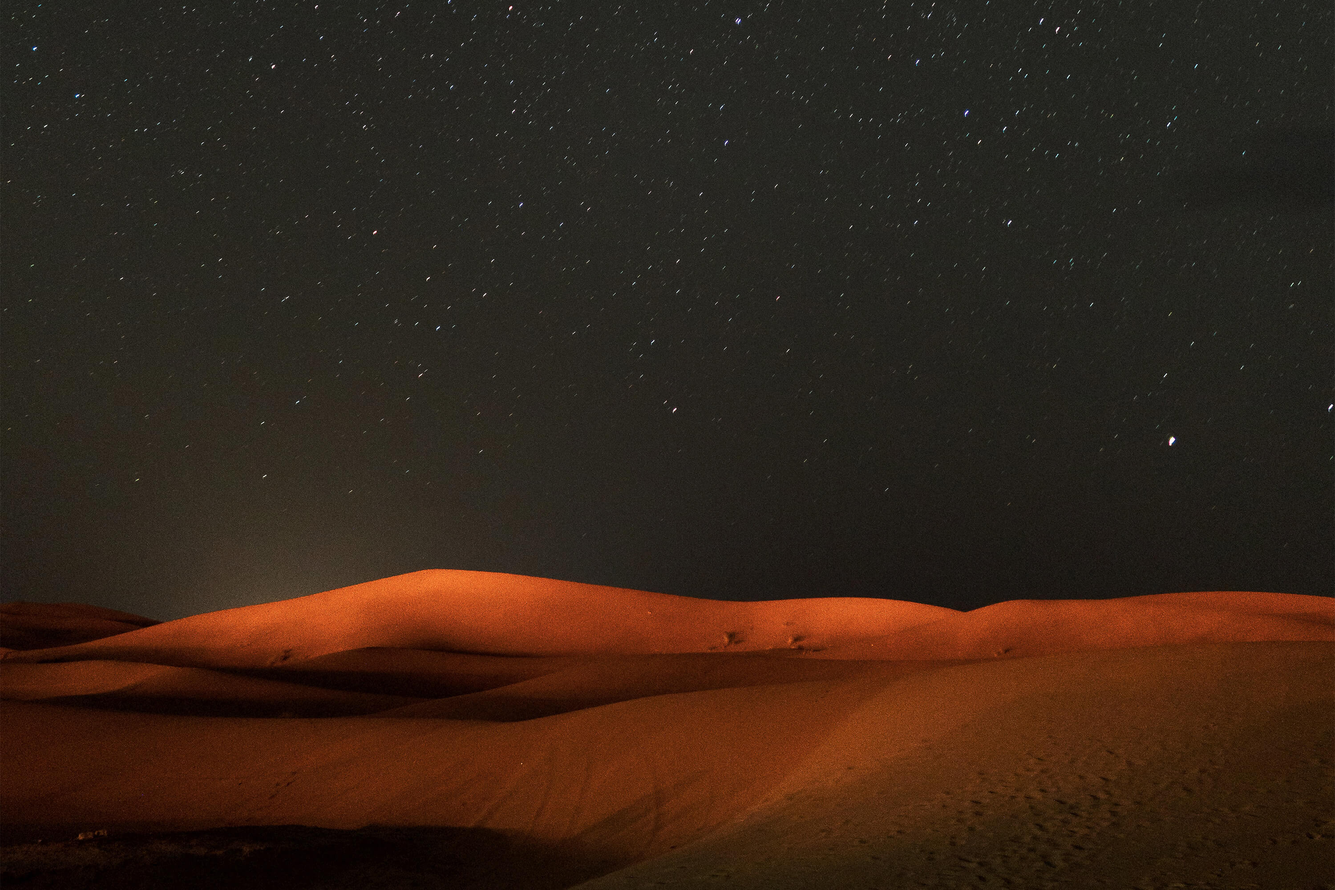
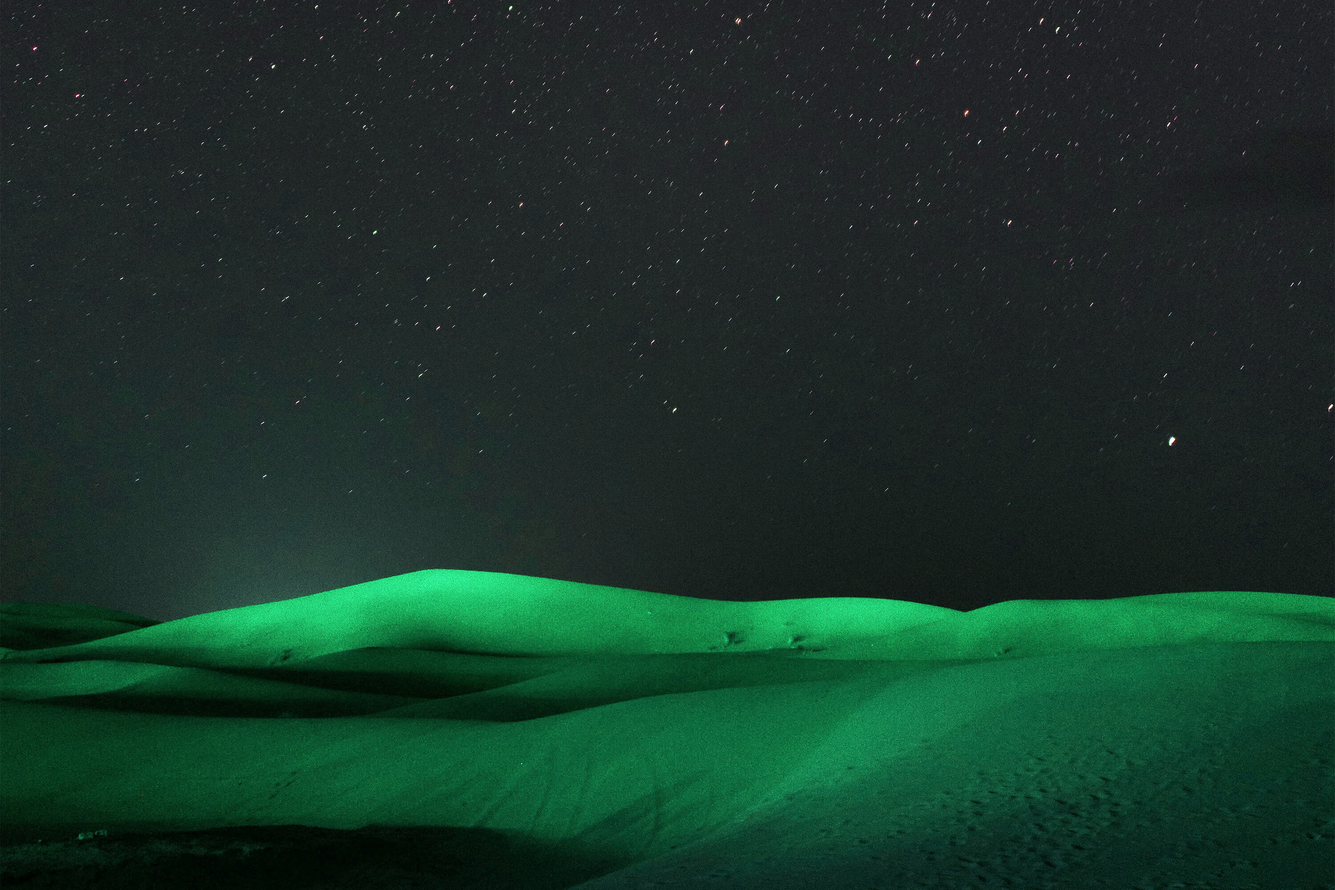
Website Revamp

diff --git a/css/styles.css b/css/styles.css
@@ -1,88 +1,4 @@
-/* =================================================================== 
- * Ceevee Main Stylesheet
- * Template Ver. 2.0.0
- * 01-03-2021
- * ------------------------------------------------------------------
- *
- * TOC:
- * # settings and variables
- *      ## fonts
- *      ## colors
- *      ## vertical spacing and typescale
- *      ## grid variables
- * # normalize
- * # basic/base setup styles
- *      ## media
- *      ## typography resets
- *      ## links
- *      ## inputs
- * # Grid v3.0.0
- *      ## medium screen devices
- *      ## tablets
- *      ## mobile devices
- *      ## small mobile devices <= 400px
- * # block grids
- *      ## block grids - medium screen devices
- *      ## block grids - tablets
- *      ## block grids - mobile devices
- *      ## block grids - small mobile devices <= 400px
- * # MISC 
- * # custom grid, block grid STACK breakpoints
- * # base style overrides 
- *      ## links
- * # typography & general theme styles
- *      ## Lists
- *      ## responsive video container
- *      ## floated image
- *      ## tables
- *      ## spacing
- * # preloader
- *      ## page loaded
- * # forms 
- *      ## Style Placeholder Text
- * # buttons 
- * # additional components
- *      ## skillbars
- *      ## alert box
- *      ## pagination 
- * # common and reusable styles
- *      ## animation stuff 
- *      ## MailtoUI style overrides
- * # site header
- *      ## header nav
- *      ## mobile menu toggle 
- * # hero
- *      ## hero content
- *      ## hero social
- *      ## hero scrolldown
- *      ## animate intro content
- * # resume 
- *      ## resume block
- * # portfolio
- *      ## portfolio list
- *      ## modal popup
- * # CTA
- * # testimonials
- *      ## swiper style overrides
- *      ## testimonial slider 
- * # contact
- *      ## contact block
- * # footer
- *      ## footer social
- *      ## copyright
- *      ## go top
- *
- * ------------------------------------------------------------------ */
 
-
-/* ===================================================================
- * # settings and variables
- *
- * ------------------------------------------------------------------- */
-
-/* ------------------------------------------------------------------- 
- * ## fonts
- * ------------------------------------------------------------------- */
 @import url("https://fonts.googleapis.com/css2?family=IBM+Plex+Serif:ital,wght@0,300;0,400;0,500;0,600;0,700;1,200;1,300;1,400;1,500;1,600&family=Inter:wght@300;400;500;600;700&display=swap");
 :root {
     --font-1: "Inter", sans-serif;
@@ -97,21 +13,21 @@
  * ------------------------------------------------------------------- */
 :root {
     /* color-1(#11ABB0)
-     * color-2(#F06000)
+     * color-2(#00dd85 )
      */
-    --color-1: hsla(182, 82%, 38%, 1);
-    --color-2: hsla(24, 100%, 47%, 1);
+    --color-1: rgb(12, 216, 114);
+    --color-2: rgb(11, 194, 93);
 
     /* theme color variations
      */
-    --color-1-lighter: hsla(182, 82%, 58%, 1);
-    --color-1-light  : hsla(182, 82%, 48%, 1);
+    --color-1-lighter: rgb(22, 223, 123);
+    --color-1-light  : rgb(22, 223, 123);
     --color-1-dark   : hsla(182, 82%, 28%, 1);
     --color-1-darker : hsla(182, 82%, 18%, 1);
-    --color-2-lighter: hsla(24, 100%, 67%, 1);
-    --color-2-light  : hsla(24, 100%, 57%, 1);
-    --color-2-dark   : hsla(24, 100%, 37%, 1);
-    --color-2-darker : hsla(24, 100%, 27%, 1);
+    --color-2-lighter: rgb(11, 194, 93);
+    --color-2-light  : rgb(11, 194, 93);
+    --color-2-dark   : rgb(11, 194, 93);
+    --color-2-darker : rgb(0, 88, 47);
 
     /* feedback colors
      * color-error(#ffd1d2), color-success(#c8e675), 
@@ -119,7 +35,7 @@
      */
     --color-error          : hsla(359, 100%, 91%, 1);
     --color-success        : hsla(76, 69%, 68%, 1);
-    --color-info           : hsla(205, 82%, 91%, 1);
+    --color-info           : rgb(9, 211, 100);
     --color-notice         : hsla(51, 100%, 80%, 1);
     --color-error-content  : hsla(359, 50%, 50%, 1);
     --color-success-content: hsla(76, 29%, 28%, 1);
@@ -133,7 +49,7 @@
      */
     --color-black  : #000000;
     --color-gray-19: #0a0a0a;
-    --color-gray-18: #141414;
+    --color-gray-18: #ffffff;
     --color-gray-17: #1e1e1e;
     --color-gray-16: #282828;
     --color-gray-15: #323333;
@@ -145,25 +61,25 @@
     --color-gray-9 : #737474;
     --color-gray-8 : #828484;
     --color-gray-7 : #929393;
-    --color-gray-6 : #a1a3a3;
+    --color-gray-6 : #616161;
     --color-gray-5 : #b1b2b2;
     --color-gray-4 : #c1c1c1;
-    --color-gray-3 : #d0d1d1;
+    --color-gray-3 : #747474;
     --color-gray-2 : #e0e0e0;
     --color-gray-1 : #eff0f0;
     --color-white  : #ffffff;
 
     /* text
      */
-    --color-text       : var(--color-gray-16);
-    --color-text-dark  : var(--color-black);
-    --color-text-light : var(--color-gray-7);
-    --color-placeholder: var(--color-gray-7);
+    --color-text       : var(--color-white);
+    --color-text-dark  : var(--color-white);
+    --color-text-light : var(--color-white);
+    --color-placeholder: var(--color-white);
 
     /* buttons
      */
     --color-btn                   : var(--color-gray-3);
-    --color-btn-text              : var(--color-black);
+    --color-btn-text              : var(--color-white);
     --color-btn-hover             : var(--color-black);
     --color-btn-hover-text        : var(--color-white);
     --color-btn-primary           : var(--color-1);
@@ -171,14 +87,14 @@
     --color-btn-primary-hover     : var(--color-2);
     --color-btn-primary-hover-text: var(--color-white);
     --color-btn-stroke            : var(--color-black);
-    --color-btn-stroke-text       : var(--color-black);
-    --color-btn-stroke-hover      : var(--color-black);
+    --color-btn-stroke-text       : var(--color-white);
+    --color-btn-stroke-hover      : var(--color-white);
     --color-btn-stroke-hover-text : var(--color-white);
 
     /* others
      */
-    --color-bg     : var(--color-gray-18);
-    --color-border : var(--color-gray-2);
+    --color-bg     : var(--color-gray-18s);
+    --color-border : var(--color-white);
     --border-radius: 5px;
 }
 
@@ -2067,7 +1983,7 @@ img,
     border-top: 4px solid rgba(255, 255, 255, 0.1);
     border-right: 4px solid rgba(255, 255, 255, 0.1);
     border-bottom: 4px solid rgba(255, 255, 255, 0.1);
-    border-left: 4px solid white;
+    border-left: 4px solid rgb(9, 194, 123);
     -webkit-animation: load 1.1s infinite linear;
     animation: load 1.1s infinite linear;
     display: block;
@@ -2811,7 +2727,7 @@ input[type="button"].btn--primary:focus {
 
 .pgn__num:hover {
     background: var(--color-gray-18);
-    color: var(--color-white);
+    color: var(--color-black);
 }
 
 .pgn .current, .pgn .current:hover {
@@ -2875,7 +2791,7 @@ input[type="button"].btn--primary:focus {
 .pgn__prev:focus svg path, 
 .pgn__next:hover svg path, 
 .pgn__next:focus svg path {
-    fill: white;
+    fill: rgb(53, 53, 53);
 }
 
 .pgn__prev {
@@ -3107,7 +3023,7 @@ input[type="button"].btn--primary:focus {
 .mailtoui-button-copy-clicked:hover, 
 .mailtoui-button-copy-clicked:focus {
     background-color: #1F9D55;
-    color: white;
+    color: rgb(46, 46, 46);
 }
 
 .mailtoui-email-address {
@@ -3882,7 +3798,7 @@ input[type="button"].btn--primary:focus {
  *
  * ------------------------------------------------------------------- */
 .s-resume {
-    background-color: white;
+    background-color: var(--color-gray-17);
     padding-top: calc(6 * var(--space));
     padding-bottom: var(--vspace-4);
 }
@@ -3960,7 +3876,7 @@ input[type="button"].btn--primary:focus {
  *
  * ------------------------------------------------------------------- */
 .s-portfolio {
-    background-color: var(--color-gray-1);
+    background-color: var(--color-gray-17);
     padding-top: calc(6 * var(--space));
     padding-bottom: var(--vspace-5);
 }
@@ -3983,7 +3899,7 @@ input[type="button"].btn--primary:focus {
 
 .folio-item__thumb {
     display: block;
-    background-color: white;
+    background-color: rgba(255, 255, 255, 0.02);
     position: relative;
     overflow: hidden;
 }
@@ -4012,7 +3928,7 @@ input[type="button"].btn--primary:focus {
     font-family: var(--font-2);
     font-weight: 300;
     font-size: 3rem;
-    color: white;
+    color: rgba(255, 255, 255, 0.02);
     display: block;
     height: 32px;
     width: 32px;
@@ -4062,7 +3978,7 @@ input[type="button"].btn--primary:focus {
  * ------------------------------------------------------------------- */
 .modal-popup {
     max-width: 680px;
-    background-color: white;
+    background-color: rgba(255, 255, 255, 0.02);
     font-size: calc(var(--text-size) * 0.9444);
     line-height: 1.647;
     overflow-y: auto;
@@ -4428,7 +4344,7 @@ input[type="button"].btn--primary:focus {
 }
 
 .contact-block a {
-    color: white;
+    color: rgba(255, 255, 255, 0.02);
 }
 
 .contact-block a:hover, .contact-block a:focus {
@@ -4438,7 +4354,7 @@ input[type="button"].btn--primary:focus {
 .contact-block__header {
     font-size: 2.2rem;
     font-weight: 400;
-    color: rgba(255, 255, 255, 0.4);
+    color: rgba(255, 255, 255, 0.02);
     margin-top: 0;
     margin-bottom: .2rem;
 }
@@ -4507,7 +4423,7 @@ input[type="button"].btn--primary:focus {
  *
  * ------------------------------------------------------------------- */
 .s-footer {
-    background-color: var(--color-gray-18);
+    background-color: var(--color-gray-17);
     padding-top: var(--vspace-1);
     padding-bottom: var(--vspace-3);
     color: rgba(255, 255, 255, 0.2);

diff --git a/index.html b/index.html
@@ -77,7 +77,7 @@
                     <h1>I'm Laser.</h1>
 
                     <h3>
-                    I'm a Minecraft based graphic designer and illustrator working for <a href="https://mantle.gg">Mantle</a> and <a href="https://discord.gg/QrduuqWqEh">Melon Client</a> creating high quality capes and cosmetics. Lets begin shall we? And learn more  <a class="smoothscroll" href="#about">about me</a>.
+                    I'm a Minecraft based graphic designer and illustrator working for <a href="https://mantle.gg">Mantle</a>,  <a href="https://discord.gg/cloaks">Cloaks+</a> and <a href="https://discord.gg/QrduuqWqEh">Melon Client</a> creating high quality capes and cosmetics. Lets begin shall we? And learn more  <a class="smoothscroll" href="#about">about me</a>.
                     </h3>
 
                     <div class="s-hero__content-social">
@@ -348,8 +348,8 @@
                 <img src="images/portfolio/gallery/g-fuji.jpg" alt="" />
     
                 <div class="modal-popup__desc">
-                    <h5>God of Thunder</h5>
-                    <p>Profile picture for me :D</p>
+                    <h5>Sword Dance</h5>
+                    <p>Show everyone your moves.</p>
                     <ul class="modal-popup__cat">
                         <li>Product Design</li>
                     </ul>
@@ -364,8 +364,8 @@
                 <img src="images/portfolio/gallery/g-skaterboy.jpg" alt="" />
     
                 <div class="modal-popup__desc">
-                    <h5>Laser's World Icon</h5>
-                    <p>Icon for my <a href="https://discord.gg/bqF2KUgvG2">Discord server</a>:D</p>
+                    <h5>Late Night</h5>
+                    <p>Sometimes... You are forced to use your gun.</p>
                     <ul class="modal-popup__cat">
                         <li>Branding</li>
                         <li>Product Design</li>
@@ -444,7 +444,7 @@
                                     <span>Customer</span>
                                 </cite>
                             </div>
-                            <p>
+                            <p style="color:rgb(255, 255, 255);font-size:25px;">
                                 Graphics are looking clean and professional. Contact with the designer is great.
                                  If you are looking for someone to make some graphic work for your project I would recommend him 100%
                             </p>
@@ -458,11 +458,8 @@
                                     <span>Customer</span>
                                 </cite>
                             </div>
-                            <p>
-                                I asked laser to design me a cape. I msg'd a lot of people to get a quick answer/cape soon and he msg me back within 4 minutes.
-I asked him to show progress and he only sent me the background but I already knew it was a wrap because its took him like a hour and a half to make it.
-I've never seen someone put in that much work for just a background.
-I knew it was going to be good. It only took him 2 more hours to finish the whole cape,so i would say he is pretty fast at making capes. When I showed my faction leaders the new cape design they were so gas about it and were all really liked it so much that we swapped out the old with the new one as fast as possible. 
+                            <p style="color:rgb(255, 255, 255);font-size:25px;">
+It only took him 2 more hours to finish the whole cape,so i would say he is pretty fast at making capes.
 I liked it so much I bought lunar wings to match with it and all i got to say is that the cape he made from me was worth way more than 5 dollars since he did it so fast. A Great Designer.
                             </p>
                         </div> <!-- end testimonial-slider__slide -->
@@ -475,7 +472,7 @@ I liked it so much I bought lunar wings to match with it and all i got to say is
                                     <span>Customer</span>
                                 </cite>
                             </div>
-                            <p>
+                            <p style="color:rgb(255, 255, 255);font-size:25px;">
                                 Very fast and was there with me the whole time. Would recommend if you want a trustworthy & good person to design! 10/10
 
                             </p>
@@ -485,12 +482,12 @@ I liked it so much I bought lunar wings to match with it and all i got to say is
                             <div class="testimonial-slider__author">
                                 <img src="images/avatars/user-05.jpg" alt="Author image" class="testimonial-slider__avatar">
                                 <cite class="testimonial-slider__cite">
-                                    <strong>Sleaaa</strong>
+                                    <strong>Euse</strong>
                                     <span>Customer</span>
                                 </cite>
                             </div>
-                            <p>
-                            High quality product. Would recommend to everyone! Also designer was very friendly even tho i kept telling him to change stuff (^-^). 
+                            <p style="color:rgb(255, 255, 255);font-size:25px;">
+                                10/10 amazing to work with and did an amazing job!
                             </p>
                         </div> <!-- end testimonial-slider__slide -->
     

diff --git a/css/vendor.css b/css/vendor.css
@@ -20,7 +20,7 @@
  *   @author ocodia
  * ------------------------------------------------------------------- */
 code[class*="language-"], pre[class*="language-"] {
-    color: #f8f8f2;
+    color: #000000;
     background: none;
     text-shadow: 0 1px rgba(0, 0, 0, 0.3);
     font-family: var(--font-mono);
